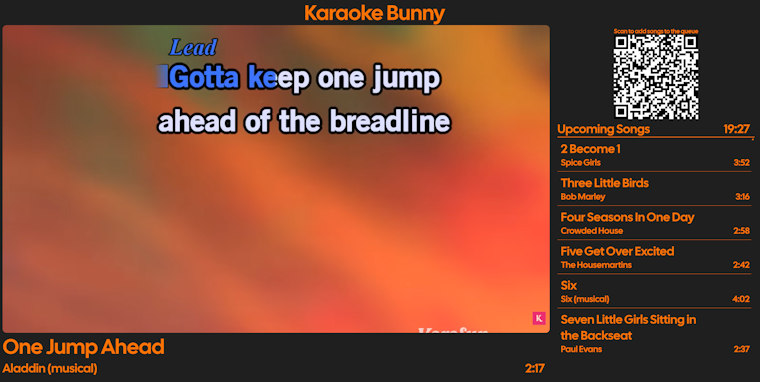
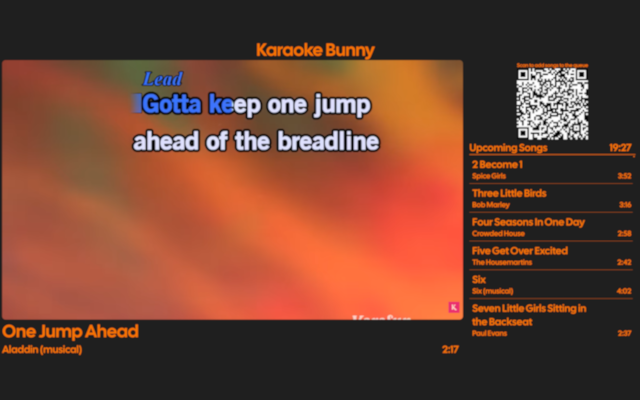
Change launch url

diff --git a/background.js b/background.js
@@ -10,6 +10,7 @@ function getFile(url, callback) {
 function onRequest(request, sender, sendResponse) {
 
 	if (request.name == "getFile") {
+		console.log(request);
 		getFile(request.url, (response) => {
 			sendResponse({'url': request.url, 'data': response});
 		});

diff --git a/popup.js b/popup.js
@@ -1,4 +1,4 @@
 if (typeof chrome !== 'undefined') {var browser = chrome;}
 browser.tabs.create({
-    url: "https://www.youtube.com/watch?v=iXZX_HAmbTU#KaraokeBunny"
+    url: "https://karaokebunny.com/launch/"
 });

diff --git a/karaokebunny.css b/karaokebunny.css
@@ -76,7 +76,7 @@ ytd-app {
 /* Sidebar */
 .karaokebunny-sidebar {
     color: var(--main-color);
-    padding-top: 30px;
+    padding-top: 20px;
     max-width: 25vw;
     width: 600px;
 }
